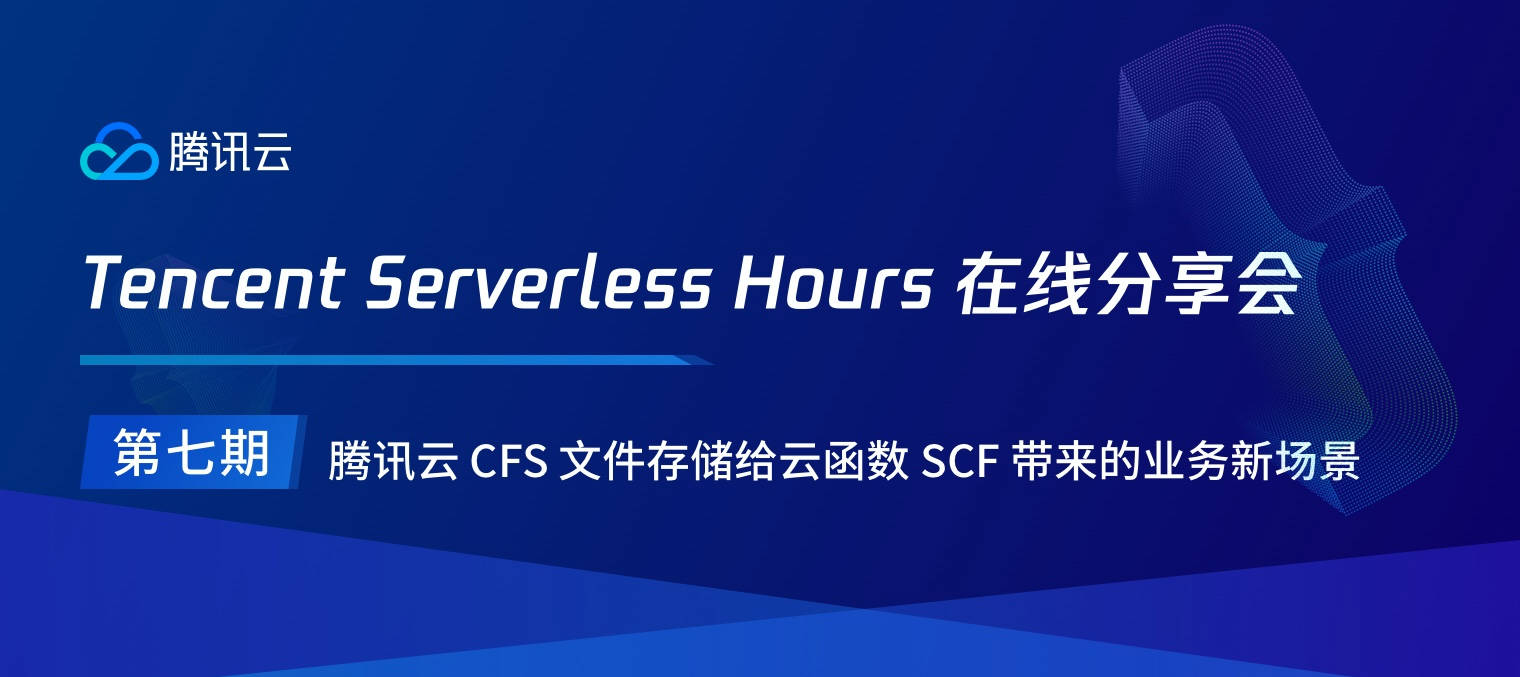
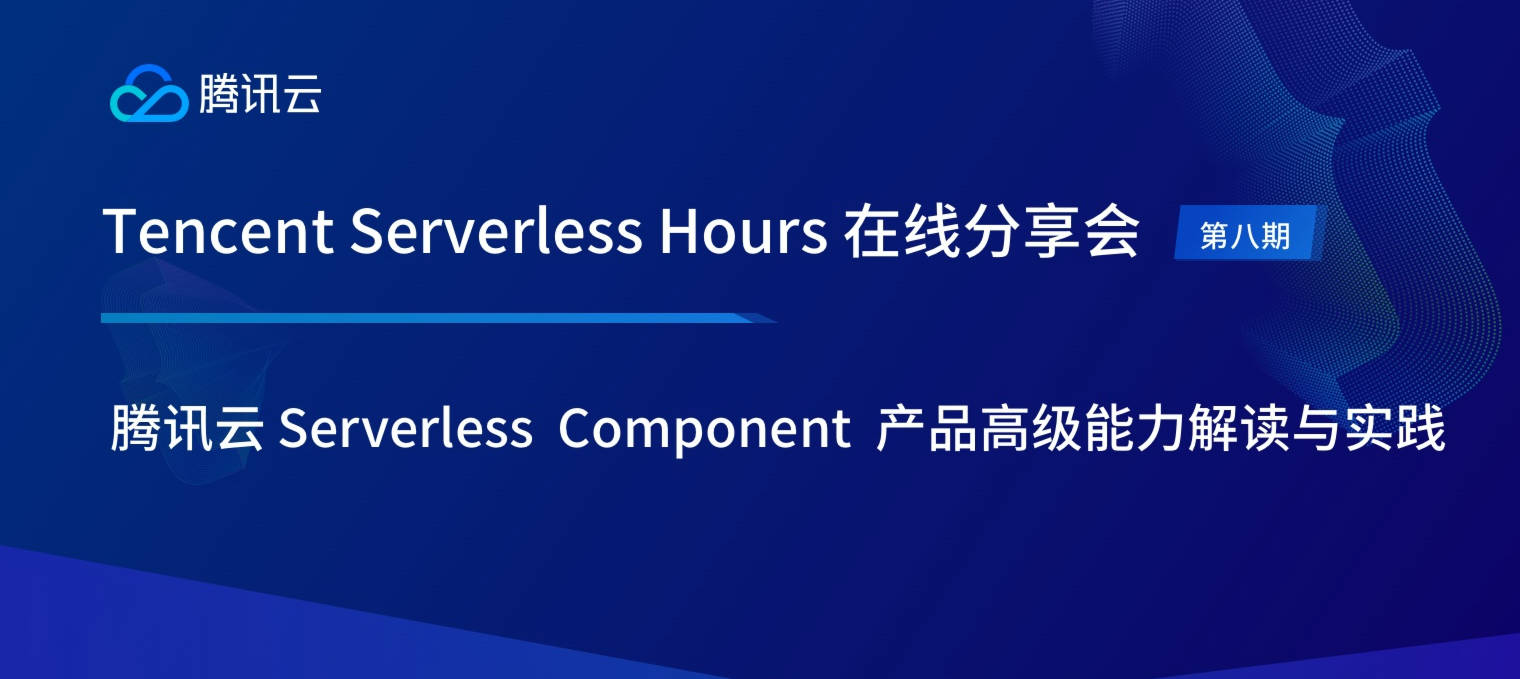
update Webniar

Changed region(s): [[0.0, 0.0, 1.0, 1.0], [0.0309, 0.5273, 0.4638, 0.5583]]

diff --git a/src/components/pages/home/Activitys.tsx b/src/components/pages/home/Activitys.tsx
@@ -13,9 +13,9 @@ interface Activity {
 const activityList: Activity[] = [
   {
     cover: 'https://img.serverlesscloud.cn/2020720/1595233528915-1588164013282-banner_hours%20%281%29.jpg',
-    title: 'Tencent Serverless Hours | 第七期',
-    decription: '腾讯云 CFS 文件存储给 Serverless 云函数带来的业务新场景',
-    link: '/blog/2020-08-14-cfs-scf-meetup',
+    title: 'Tencent Serverless Hours | 第八期',
+    decription: '腾讯云 Serverless Component 原理解读与实战',
+    link: '/blog/2020-08-21-sls-component-meetup',
   },
   {
     cover: 'https://main.qcloudimg.com/raw/3cb7b20955d78ced738e0279bb3f6f41.jpg',

diff --git a/src/components/pages/home/AuthorDetail.tsx b/src/components/pages/home/AuthorDetail.tsx
@@ -14,9 +14,9 @@ const activityList: Activity[] = [
   {
     cover:
       'https://img.serverlesscloud.cn/20191227/1577413467740-v2-b65fcb6a94208a494005fc0' + 'c40a99eb6_1200x500.jpg',
-    title: 'Tencent Serverless Hours | 第七期',
-    decription: '腾讯云 CFS 文件存储给 Serverless 云函数带来的业务新场景',
-    link: '/blog/2020-08-14-cfs-scf-meetup',
+    title: 'Tencent Serverless Hours | 第八期',
+    decription: '腾讯云 Serverless Component 原理解读与实战',
+    link: '/blog/2020-08-21-sls-component-meetup',
   },
   {
     cover: 'https://main.qcloudimg.com/raw/3cb7b20955d78ced738e0279bb3f6f41.jpg',

diff --git a/src/constants/ad_banner.ts b/src/constants/ad_banner.ts
@@ -8,6 +8,6 @@
 export const adBanner: { link: string; thumbnail: string; title: string; text: string } = {
   link: 'https://serverlesscloud.cn/blog/2020-08-14-cfs-scf-meetup',
   thumbnail: 'https://img.serverlesscloud.cn/2020720/1595233528915-1588164013282-banner_hours%20%281%29.jpg',
-  title: 'Tencent Serverless Hours | 第七期',
-  text: '腾讯云 CFS 文件存储给 Serverless 云函数带来的业务新场景',
+  title: 'Tencent Serverless Hours | 第八期',
+  text: '腾讯云 Serverless Component 原理解读与实战',
 }

diff --git a/src/components/pages/home/Swiper.tsx b/src/components/pages/home/Swiper.tsx
@@ -28,8 +28,8 @@ const bannerConfigs: {
     img: banner_meetup,
     backgroundColor: '#dcdcdc',
     alt: 'Tencent Serverless Hours',
-    link: 'https://serverlesscloud.cn/blog/2020-08-14-cfs-scf-meetup',
-    title: '7 月 31 日（周五）15:00，欢迎预约直播！',
+    link: 'https://serverlesscloud.cn/blog/2020-08-21-sls-component-meetup',
+    title: '8 月 21 日（周五）15:00，欢迎预约直播！',
   },
   {
     img: banner2,

diff --git a/content/blog/2020-08-21-sls-component-meetup.md b/content/blog/2020-08-21-sls-component-meetup.md
@@ -1,0 +1,37 @@
+---
+title: 腾讯云 Serverless Component 原理解读与实战 | 在线分享第八期
+description: 腾讯云云函数产品负责人黄文俊 (Alfred) 和腾讯云文件存储产品负责人龚幽兰 (Effie) 为您分享！
+keywords: Serverless CFS
+date: 2020-08-21
+time: future
+thumbnail: https://img.serverlesscloud.cn/2020818/1597748247763-%E6%96%B0%E9%97%BB%E7%A8%BFbanner02-1.jpg
+categories:
+  - meetup
+authors:
+  - Serverless 社区
+location:
+  - 线上直播 | 腾讯云 & Serverless 社区
+tags:
+  - Serverless
+  - Meetup
+---
+
+Tencent Serverless Hours 系列在线免费分享会（第八期）即将举办，届时将有腾讯云 Serverless Framework 产品经理杜佳辰 (April) 和腾讯云 Serverless Framework 高级开发工程师孙远高 (Yugasun) 与您分享！扫描海报二维码，报名预约直播。
+
+**直播时间：**8 月 21 日（周五）
+
+**直播地址：**https://cloud.tencent.com/edu/learning/live-2974
+
+
+![](https://img.serverlesscloud.cn/2020818/1597740102652-%E6%B5%B7%E6%8A%A50813%283%29.jpg)
+
+---
+<div id='scf-deploy-iframe-or-md'></div>
+
+---
+
+> **传送门：**
+> - GitHub: [github.com/serverless](https://github.com/serverless/serverless/blob/master/README_CN.md)
+> - 官网：[serverless.com](https://serverless.com/)
+
+欢迎访问：[Serverless 中文网](https://serverlesscloud.cn/)，您可以在 [最佳实践](https://serverlesscloud.cn/best-practice) 里体验更多关于 Serverless 应用的开发！
